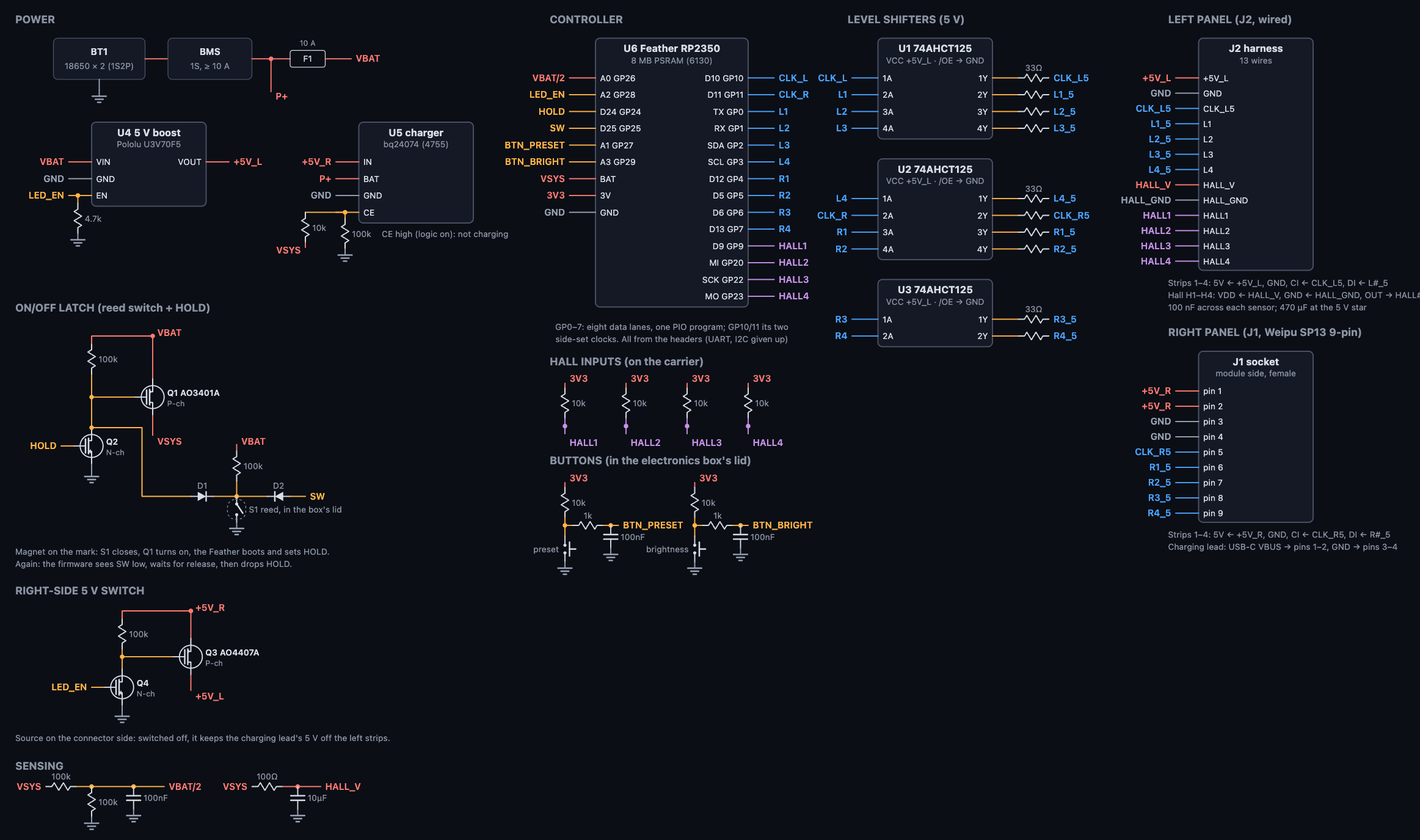
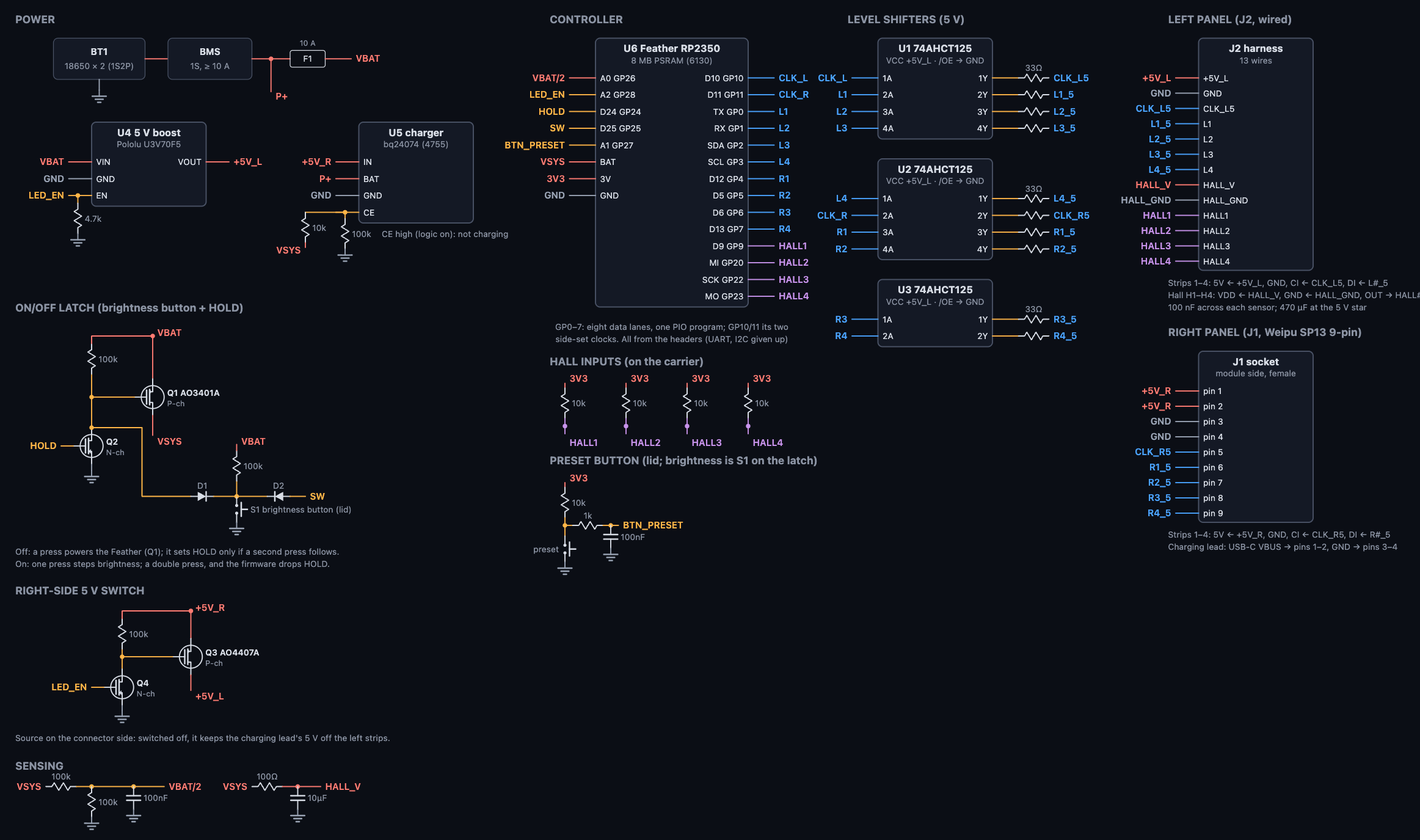
Brightness button double-click switches the wheel off and on; drop the reed switch
The brightness button is wired into the power latch in place of the reed
switch: off, a press powers the Feather, which stays on only if a second
press follows; on, a double press switches it off. Sleep mode goes; the
simulator's sun button does the same.

diff --git a/src/electronics/design.ts b/src/electronics/design.ts
@@ -111,15 +111,14 @@ export function designElectronics(p: Params): Electronics {
     { pin: 'A0', gpio: 26, net: 'VBAT/2', use: 'battery voltage through a 100k/100k divider' },
     { pin: 'A2', gpio: 28, net: 'LED_EN', use: 'turns the 5 V boost and the right side\'s 5 V on' },
     { pin: 'D24', gpio: 24, net: 'HOLD', use: 'keeps the power on once running (soft latch)' },
-    { pin: 'D25', gpio: 25, net: 'SW', use: 'reads the reed switch (magnet held to the mark)' },
+    { pin: 'D25', gpio: 25, net: 'SW', use: 'reads the brightness button, which is also the on/off switch' },
     { pin: 'A1', gpio: 27, net: 'BTN_PRESET', use: 'preset button: next preset; double-click: Auto on or off' },
-    { pin: 'A3', gpio: 29, net: 'BTN_BRIGHT', use: 'brightness button: steps 100, 50, 25, 12 %; double-click: sleep' },
     { pin: 'BAT', net: 'VSYS', use: 'switched battery in (powers the Feather\'s 3.3 V regulator); cut the Feather\'s CHG jumper' },
     { pin: '3V', net: '3V3', use: 'pull-ups for the hall sensors' },
     { pin: 'GND', net: 'GND', use: '' },
   ];
-  notes.push('Controls on the hub package: two sealed buttons and the reed switch (on/off) sit in the electronics box\'s lid, its outer face. The panels\' discs cover the box from the sides, so reach them through the spokes beyond the discs\' edge (raised caps help). Preset: a click for the next preset, a double click to turn Auto on or off (the next preset each time the lights go out). Brightness: cycles 100, 50, 25, 12 % (the firmware scales its LED current limit), and keeps the level when switched off; a double click puts the wheel to sleep (LEDs and boost off, the Feather dormant) until either button is pressed. Each button has a 10k pull-up, 1k in series and 100 nF, against wet-weather noise and static.');
-  notes.push('Power: the boost runs straight off the cells (through the protection board and fuse) and LED_EN turns it on; a 4.7 kΩ pull-down holds it off while the logic is off. The reed switch and HOLD latch only the logic\'s supply, so the off drain is a few tens of µA.');
+  notes.push('Controls on the hub package: two sealed buttons in the electronics box\'s lid, its outer face. The panels\' discs cover the box from the sides, so reach them through the spokes beyond the discs\' edge (raised caps help). Preset: a click for the next preset, a double click to turn Auto on or off (the next preset each time the lights go out). Brightness: cycles 100, 50, 25, 12 % (the firmware scales its LED current limit), and keeps the level when switched off; a double click turns the wheel on or off. It is wired into the power latch: off, a press powers the Feather, which stays on only if a second press follows. The preset button has a 10k pull-up, 1k in series and 100 nF; the brightness button sits on the latch\'s 100k pull-up.');
+  notes.push('Power: the boost runs straight off the cells (through the protection board and fuse) and LED_EN turns it on; a 4.7 kΩ pull-down holds it off while the logic is off. The brightness button and HOLD latch only the logic\'s supply, so the off drain is a few tens of µA.');
   notes.push('Charging: with the right panel unplugged, a lead from a USB-C charger into J1 feeds 5 V back up +5V_R to the charger. Q3 keeps it off the left strips, and the charger only runs while the logic is off.');
   notes.push('Data on GPIO0–7, all on the headers: the UART (TX/RX) and I2C (SDA/SCL, the STEMMA QT socket) go to the strips, so debug over USB. GPIO7 is also the red LED: it flickers with right strip 4\'s data. GPIO8 is the PSRAM\'s chip select: leave it alone. A1 and A3 are spare.');
 
@@ -203,7 +202,7 @@ export function designElectronics(p: Params): Electronics {
     massG: p.cells * CELL.g + 6 + 8,
   };
   const pwrL: Layer = {
-    id: 'power', name: 'Power board', contents: '5 V boost, charger, fuse; the buttons and reed switch in the lid', r0: pack.r0 + pack.radial,
+    id: 'power', name: 'Power board', contents: '5 V boost, charger, fuse; the two buttons in the lid', r0: pack.r0 + pack.radial,
     radial: 15, tangential: CARRIER.w + 2 * WALL + 2, axial: CARRIER.h + 2 * WALL + 2, massG: 19 + 6,
   };
   const logic: Layer = {
@@ -274,7 +273,6 @@ export function designElectronics(p: Params): Electronics {
     { group: 'Wheel', qty: halls, item: 'Hall effect sensor US5881LUA (unipolar switch)', part: '158', source: 'Adafruit', url: 'https://www.adafruit.com/product/158', each: 2, note: 'left panel, one per strip' },
     { group: 'Wheel', qty: 1, item: 'Rare-earth magnet, 12 mm (fork magnet for the hall sensors)', part: '9', source: 'Adafruit', url: 'https://www.adafruit.com/product/9', each: 2.5, note: 'south pole toward the sensors\' marked faces' },
     { group: 'Wheel', qty: 2, item: 'Momentary pushbutton, 12 mm, IP67, normally open, raised cap (preset, brightness)', part: 'e.g. 12 mm IP67 metal pushbutton', source: 'any', note: 'in the electronics box\'s lid' },
-    { group: 'Wheel', qty: 1, item: 'Magnetic contact switch (sealed reed switch): on/off', part: '375', source: 'Adafruit', url: 'https://www.adafruit.com/product/375', each: 3.95, note: 'in the box\'s lid; its magnet is the on/off key' },
     { group: 'Wheel', qty: 1, item: '5 V step-up regulator U3V70F5 (true shutdown on EN)', part: '2891', source: 'Pololu', url: 'https://www.pololu.com/product/2891', each: 25.95 },
     { group: 'Wheel', qty: 1, item: 'bq24074 Li-ion charger breakout (1 A, 1.5 A by jumper)', part: '4755', source: 'Adafruit', url: 'https://www.adafruit.com/product/4755', each: 14.95, note: 'its CE pin turns charging off while running' },
     { group: 'Wheel', qty: p.cells, item: `18650 Li-ion cell, high-drain (≥ 10 A), ${p.cellMah} mAh, tabbed`, part: 'e.g. Samsung 30Q, Molicel P28A', source: 'battery supplier', note: 'tabbed, so nothing is soldered to the cell' },
@@ -294,14 +292,14 @@ export function designElectronics(p: Params): Electronics {
     { group: 'Carrier board', qty: 1, item: 'P-MOSFET, logic level, SO-8 (right-side 5 V switch)', part: 'AO4407A', source: 'Digi-Key, Mouser' },
     { group: 'Carrier board', qty: 1, item: 'P-MOSFET, logic level, SOT-23 (logic power latch)', part: 'AO3401A', source: 'Digi-Key, Mouser' },
     { group: 'Carrier board', qty: 2, item: 'N-MOSFET, SOT-23 (latch hold, right-side switch)', part: '2N7002', source: 'Digi-Key, Mouser' },
-    { group: 'Carrier board', qty: 2, item: 'Schottky diode, SOT-23 (reed switch, switch sense)', part: 'BAT54', source: 'Digi-Key, Mouser' },
+    { group: 'Carrier board', qty: 2, item: 'Schottky diode, SOT-23 (on/off button to the latch, its sense)', part: 'BAT54', source: 'Digi-Key, Mouser' },
     { group: 'Carrier board', qty: chans.length, item: '33 Ω resistor, 0603 (series, one per lane and clock)', part: '—', source: 'Digi-Key, Mouser' },
-    { group: 'Carrier board', qty: halls + 3, item: '10 kΩ resistor, 0603 (hall and button pull-ups, charger CE)', part: '—', source: 'Digi-Key, Mouser' },
-    { group: 'Carrier board', qty: 6, item: '100 kΩ resistor, 0603 (gate pulls, reed pull-up, battery divider, CE pull-down)', part: '—', source: 'Digi-Key, Mouser' },
+    { group: 'Carrier board', qty: halls + 2, item: '10 kΩ resistor, 0603 (hall and preset-button pull-ups, charger CE)', part: '—', source: 'Digi-Key, Mouser' },
+    { group: 'Carrier board', qty: 6, item: '100 kΩ resistor, 0603 (gate pulls, on/off button pull-up, battery divider, CE pull-down)', part: '—', source: 'Digi-Key, Mouser' },
     { group: 'Carrier board', qty: 1, item: '100 Ω resistor, 0603 (hall supply filter)', part: '—', source: 'Digi-Key, Mouser' },
     { group: 'Carrier board', qty: 1, item: '4.7 kΩ resistor, 0603 (holds the boost off while the logic is off)', part: '—', source: 'Digi-Key, Mouser' },
-    { group: 'Carrier board', qty: 2, item: '1 kΩ resistor, 0603 (button inputs, in series)', part: '—', source: 'Digi-Key, Mouser' },
-    { group: 'Carrier board', qty: shifterN + 3, item: '100 nF capacitor, 0603 (one per shifter, divider, buttons)', part: '—', source: 'Digi-Key, Mouser' },
+    { group: 'Carrier board', qty: 1, item: '1 kΩ resistor, 0603 (preset button, in series)', part: '—', source: 'Digi-Key, Mouser' },
+    { group: 'Carrier board', qty: shifterN + 2, item: '100 nF capacitor, 0603 (one per shifter, divider, preset button)', part: '—', source: 'Digi-Key, Mouser' },
     { group: 'Carrier board', qty: 2, item: '10 µF capacitor, 0805 (5 V, hall supply)', part: '—', source: 'Digi-Key, Mouser' },
     { group: 'Carrier board', qty: 1, item: 'Feather female headers, 16 + 12 pin', part: '—', source: 'Adafruit' },
     { group: 'Sealing and wiring', qty: halls, item: '100 nF capacitor across each hall sensor\'s leads', part: '—', source: 'any' },

diff --git a/src/electronics/sheets.ts b/src/electronics/sheets.ts
@@ -113,16 +113,6 @@ class Pen {
     this.line([[x + 6, y + 17], [x + 14, y + 17]], { stroke: C.ink, w: 2 });
     this.text(x - 8, y + 21, label, { size: 11, fill: C.muted, anchor: 'end' });
   }
-  /** Reed switch from (x, y) down to (x, y + 34). */
-  reed(x: number, y: number, label: string) {
-    this.line([[x, y], [x, y + 10]], { stroke: C.ink });
-    this.line([[x, y + 10], [x + 8, y + 22]], { stroke: C.ink, w: 2 });
-    this.line([[x, y + 24], [x, y + 34]], { stroke: C.ink });
-    this.circle(x, y + 10, 2, { fill: C.ink });
-    this.circle(x, y + 24, 2, { fill: C.ink });
-    this.rect(x - 12, y + 4, 24, 26, { stroke: C.muted, r: 10, dash: '3 3' });
-    this.text(x + 16, y + 21, label, { size: 11, fill: C.muted });
-  }
   /** A labelled box with pins on its left and right edges: [name, net] pairs, one per row. */
   block(x: number, y: number, w: number, title: string, sub: string, left: [string, string][], right: [string, string][], o: { pitch?: number; stub?: number } = {}) {
     const pitch = o.pitch ?? 22, stub = o.stub ?? 26;
@@ -200,7 +190,7 @@ function circuit(e: Electronics): Sheet {
 
   // soft latch
   const ly = 430;
-  g.heading(20, ly - 22, 'ON/OFF LATCH (reed switch + HOLD)');
+  g.heading(20, ly - 22, 'ON/OFF LATCH (brightness button + HOLD)');
   const gn = 120, qx = 200, qy = ly + 90;
   g.line([[qx, qy - 24], [qx, ly + 10]], { stroke: C.power });
   g.net(qx, ly + 6, 'VBAT', 'start');
@@ -220,14 +210,15 @@ function circuit(e: Electronics): Sheet {
   g.gnd(gn, qy + 96);
   g.line([[gn - 24, qy + 64], [gn - 40, qy + 64]], { stroke: C.ctl });
   g.net(gn - 40, qy + 64, 'HOLD', 'end');
-  // reed: gate → D1 → reed node → reed → ground; node pulled up to VBAT; SW reads it through D2
+  // on/off: gate → D1 → button node → brightness button → ground; node pulled up to VBAT; SW reads it through D2
   const sx = 310, ry0 = qy + 130;
   g.dot(gn, qy + 40, C.ctl);
   g.line([[gn, qy + 40], [gn + 66, qy + 40], [gn + 66, ry0], [250, ry0]], { stroke: C.ctl });
   g.diode(250, ry0, 'D1');
   g.line([[280, ry0], [sx, ry0]], { stroke: C.ctl });
   g.dot(sx, ry0, C.ctl);
-  g.reed(sx, ry0, 'S1 reed, in the box\'s lid');
+  g.button(sx, ry0, '');
+  g.text(sx + 18, ry0 + 21, 'S1 brightness button (lid)', { size: 11, fill: C.muted });
   g.gnd(sx, ry0 + 34);
   g.line([[sx, ry0], [sx, ry0 - 20]], { stroke: C.ctl });
   g.res(sx, ry0 - 60, '100k', true);
@@ -237,8 +228,8 @@ function circuit(e: Electronics): Sheet {
   g.diode(sx + 40, ry0, 'D2', true);
   g.line([[sx + 70, ry0], [sx + 90, ry0]], { stroke: C.ctl });
   g.net(sx + 90, ry0, 'SW', 'start');
-  g.text(20, ry0 + 76, 'Magnet on the mark: S1 closes, Q1 turns on, the Feather boots and sets HOLD.', { size: 11, fill: C.muted });
-  g.text(20, ry0 + 92, 'Again: the firmware sees SW low, waits for release, then drops HOLD.', { size: 11, fill: C.muted });
+  g.text(20, ry0 + 76, 'Off: a press powers the Feather (Q1); it sets HOLD only if a second press follows.', { size: 11, fill: C.muted });
+  g.text(20, ry0 + 92, 'On: one press steps brightness; a double press, and the firmware drops HOLD.', { size: 11, fill: C.muted });
 
   // right-side 5 V switch
   const ry = ry0 + 150;
@@ -310,8 +301,8 @@ function circuit(e: Electronics): Sheet {
   }
   // buttons: pull-up, 1k in series, 100 nF at the pin; the button to the pod's ground
   const by = hy + 130;
-  g.heading(fx - 60, by - 14, 'BUTTONS (in the electronics box\'s lid)');
-  [['BTN_PRESET', 'preset'], ['BTN_BRIGHT', 'brightness']].forEach(([net, label], i) => {
+  g.heading(fx - 60, by - 14, 'PRESET BUTTON (lid; brightness is S1 on the latch)');
+  [['BTN_PRESET', 'preset']].forEach(([net, label], i) => {
     const x = fx - 40 + i * 170;
     g.net(x, by + 4, '3V3', 'start');
     g.line([[x, by + 10], [x, by + 16]], { stroke: C.power });
@@ -402,11 +393,10 @@ function wiring(e: Electronics): Sheet {
   g.rect(580, 80, 160, 170, { fill: C.box, stroke: C.data, r: 6 });
   g.text(660, 102, 'Logic (top of the box)', { anchor: 'middle', weight: 700 });
   for (const [i, s] of ['Feather RP2350', 'on the carrier board:', `${e.shifters.length} × 74AHCT125`, 'latch, Q3, pull-ups', 'all from the headers'].entries()) g.text(660, 124 + i * 18, s, { anchor: 'middle', size: 11, fill: C.muted });
-  // the box's lid, its outer face: the two buttons and the reed switch
+  // the box's lid, its outer face: the two buttons
   g.circle(752, 92, 7, { stroke: C.ink, w: 1.5 }); g.circle(752, 114, 7, { stroke: C.ink, w: 1.5 });
-  g.rect(746, 128, 12, 18, { stroke: C.ctl, r: 3 });
   g.text(764, 96, 'preset', { size: 10, fill: C.muted }); g.text(764, 118, 'brightness', { size: 10, fill: C.muted });
-  g.text(764, 141, 'on/off reed', { size: 10, fill: C.muted }); g.text(746, 162, 'in the lid', { size: 10, fill: C.ctl });
+  g.text(746, 140, 'in the lid', { size: 10, fill: C.ctl });
   g.rect(580, 300, 160, 110, { fill: C.box, stroke: C.power, r: 6 });
   g.text(660, 322, 'Power board', { anchor: 'middle', weight: 700 });
   for (const [i, s] of ['5 V boost (U3V70F5)', 'charger (bq24074)', 'fuse 10 A'].entries()) g.text(660, 344 + i * 18, s, { anchor: 'middle', size: 11, fill: C.muted });
@@ -540,13 +530,12 @@ function hub(e: Electronics, spokes: number): Sheet {
   // the strap over the stack, through the bracket's rails
   g.line([P(-bh, br.railTo - 3), P(-top.tangential / 2 - 1, outerR + 1.5), P(top.tangential / 2 + 1, outerR + 1.5), P(bh, br.railTo - 3)], { stroke: C.hall, w: 3 });
   g.text(ox, oy - (outerR + 5) * S, 'hook-and-loop strap', { size: 11, fill: C.hall, anchor: 'middle' });
-  // the lid's controls, on the outer face: the two buttons and the reed switch, clear of the strap
+  // the lid's controls, on the outer face: the two buttons, clear of the strap
   for (const dx of [-22, -12]) {
     const [bx0, by0] = P(dx, outerR);
     g.rect(bx0 - 3.5 * S / 2, by0 - 2 * S, 3.5 * S, 2 * S, { fill: C.ink, r: 2 });
   }
-  { const [rx, ry] = P(14, outerR); g.rect(rx - 6 * S / 2, ry - 1.6 * S, 6 * S, 1.6 * S, { fill: C.ctl, r: 2 }); }
-  g.text(ox + (top.tangential / 2 + 6) * S, oy - (outerR + 1) * S, 'lid: preset and brightness buttons, reed', { size: 11, fill: C.ink });
+  g.text(ox + (top.tangential / 2 + 6) * S, oy - (outerR + 1) * S, 'lid: preset and brightness (on/off) buttons', { size: 11, fill: C.ink });
   // XT30 between pack and box
   const [xx, xy] = P(pack.tangential / 2 - 2, pack.r0 + pack.radial);
   g.rect(xx, xy - 7, 26, 14, { fill: '#2a2f3b', stroke: C.ink, r: 3 });
@@ -677,7 +666,7 @@ function board(e: Electronics): Sheet {
   // wire pads at each end
   const leftPads = e.leftHarness.map((w) => w.net);
   const rightPads = ['+5V_R', 'GND', 'CLK_R5', ...Array.from({ length: e.sides === 2 ? e.n : 0 }, (_, i) => `R${i + 1}_5`)];
-  const powerPads = ['+5V_L', 'GND', 'VBAT', 'LED_EN', 'CE', 'REED', 'BTN_P', 'BTN_B', 'GND'];
+  const powerPads = ['+5V_L', 'GND', 'VBAT', 'LED_EN', 'CE', 'BTN_P', 'S1', 'GND'];
   // Numbered pads in two columns at each end; the legend beside the board names each one.
   const padCol = (pads: string[], x: number, title: string, legendX: number, anchor: 'start' | 'end') => {
     const rows = Math.ceil(pads.length / 2);
@@ -694,7 +683,7 @@ function board(e: Electronics): Sheet {
   };
   padCol(leftPads, 1.2, `J2 left harness (${leftPads.length})`, ox - 24, 'end');
   padCol([...rightPads, ...powerPads], Wmm - 3.8, `J1 pigtail, power board (${rightPads.length + powerPads.length})`, ox + Wmm * S + 24, 'start');
-  g.text(B(Wmm / 2, 0)[0], oy + Hmm * S + 18, 'Box pads: power board (GND, +5V_L in 18 AWG), the lid\'s reed and buttons; the charger\'s IN shares +5V_R.', { size: 11, fill: C.muted, anchor: 'middle' });
+  g.text(B(Wmm / 2, 0)[0], oy + Hmm * S + 18, 'Box pads: power board (GND, +5V_L in 18 AWG), the lid\'s two buttons; the charger\'s IN shares +5V_R.', { size: 11, fill: C.muted, anchor: 'middle' });
   const y0 = Math.max(oy + Hmm * S + 50, oy + 30 + 16 * Math.max(leftPads.length, rightPads.length + powerPads.length));
   const notes = [
     'Placement only, for routing in KiCad: the Feather sits 8.5 mm above on female headers, so parts under it stay below ~3 mm.',

diff --git a/src/electronics/electronicsTab.ts b/src/electronics/electronicsTab.ts
@@ -36,7 +36,7 @@ export function buildElectronicsTab(p: Params, pane: HTMLElement, onChange: (key
     const w = e.power;
     const rows: [string, string][] = [
       ['Controller', 'Feather RP2350 (8 MB PSRAM): one PIO program sends every strip its own data on GP0–7, a clock per side; all wired from the headers'],
-      ['Controls', 'in the electronics box\'s lid: preset and brightness buttons (A1, A3) and the on/off reed switch'],
+      ['Controls', 'in the electronics box\'s lid: preset button (A1) and brightness button (D25, on the power latch)'],
       ['Strips', `${e.n} per side × ${e.sides} side${e.sides > 1 ? 's' : ''}, ${e.leds} LEDs each (${e.totalLeds} in all)`],
       ['Lanes', e.lanes.map((l) => `${l.net} GP${l.gpio}`).join(' · ') + ` · clocks GP10${e.sides > 1 ? '/11' : ''}`],
       ['Level shifters', `${e.shifters.length} × 74AHCT125 at 5 V, 33 Ω in series with each output`],
@@ -45,7 +45,7 @@ export function buildElectronicsTab(p: Params, pane: HTMLElement, onChange: (key
       ['Battery', `${p.cells} × 18650 (1S${p.cells}P), ${w.ah} Ah · ${w.battA} A at the limit (${w.perCellA} A a cell) · ≥ ${w.runtimeAtCapH} h even at the limit`],
       ['Charging', `~${w.chargeA} A through J1 with the right panel off: ~${w.chargeH} h from empty`],
       ...(e.sides > 1 ? [['Right connector', `Weipu SP13 9-pin, IP68: ${w.perSideA} A on two 5 V contacts (${w.perPinA} A each, rated 3 A)`] as [string, string]] : []),
-      ['On/off', 'magnet on the reed switch toggles it; the firmware turns off after a while stopped'],
+      ['On/off', 'double-click the brightness button; the firmware also turns off after a while stopped'],
       ['Hub module', `one stack in a printed bracket on a Ø${2 * e.hub.shellR} mm shell: ${e.hub.moduleG} g, centre ${e.hub.moduleR} mm out`],
       ['Balance', `${e.hub.counterweight.massG} g on the rim's inner face ${e.hub.counterweight.angleDeg === 180 ? 'opposite the module' : 'on the module\'s side'} (module opposite the ${e.n === 1 ? 'blades, valve' : 'valve'} and J1)`],
       ['Strips idle', `${w.idleMa} mA with the LEDs dark: the firmware turns the boost off when stopped`],

diff --git a/src/ui.ts b/src/ui.ts
@@ -395,31 +395,31 @@ export function buildUi(p: Params, hooks: UiHooks): Ui {
       clearTimeout(clickTimer);
       clickTimer = 0;
       const auto = $<HTMLInputElement>('auto-next');
+      if (p.switchedOff) return; // off, the preset button does nothing
       auto.checked = !auto.checked;
       auto.dispatchEvent(new Event('change'));
       return;
     }
     clickTimer = window.setTimeout(() => {
       clickTimer = 0;
-      if (p.sleeping) { wake(); return; }
+      if (p.switchedOff) return;
       store.next();
       hooks.onPresetSelected();
     }, 300);
   };
   presetName.onclick = () => openTab('presets');
   // The wheel's second button: a click steps the brightness (remembered with the hardware), a double
-  // click puts the wheel to sleep (LEDs and boost off). Asleep, a click on either button wakes it.
+  // click switches the wheel off or on (it is wired into the power latch). Off, a single click does nothing.
   const bright = $('bright');
-  const wake = () => { p.sleeping = false; refresh(); };
   const stepBrightness = () => {
-    if (p.sleeping) { wake(); return; }
+    if (p.switchedOff) return;
     p.brightnessLevel = (p.brightnessLevel + 1) % BRIGHTNESS_STEPS.length;
     hooks.onDeviceEdit('brightnessLevel');
     refresh();
   };
   let brightTimer = 0;
   bright.onclick = () => {
-    if (brightTimer) { clearTimeout(brightTimer); brightTimer = 0; p.sleeping = !p.sleeping; refresh(); return; }
+    if (brightTimer) { clearTimeout(brightTimer); brightTimer = 0; p.switchedOff = !p.switchedOff; refresh(); return; }
     brightTimer = window.setTimeout(() => { brightTimer = 0; stepBrightness(); }, 300);
   };
   window.addEventListener('keydown', (e) => {
@@ -485,7 +485,7 @@ export function buildUi(p: Params, hooks: UiHooks): Ui {
     }
     syncVisibility();
     renderPresets();
-    bright.textContent = p.sleeping ? '☾ Sleep' : `☀ ${Math.floor(BRIGHTNESS_STEPS[p.brightnessLevel] * 100)}%`;
+    bright.textContent = p.switchedOff ? '⏻ Off' : `☀ ${Math.floor(BRIGHTNESS_STEPS[p.brightnessLevel] * 100)}%`;
     panels.refresh();
   }
   refresh();

diff --git a/src/params.ts b/src/params.ts
@@ -78,7 +78,7 @@ export const MPH = 0.44704; // m/s
 
 /** The brightness button's steps: each press scales every LED (and the firmware's current limit) by the next. */
 export const BRIGHTNESS_STEPS = [1, 0.5, 0.25, 0.125];
-export const brightnessScale = (p: { brightnessLevel: number; sleeping: boolean }) => (p.sleeping ? 0 : BRIGHTNESS_STEPS[p.brightnessLevel] ?? 1);
+export const brightnessScale = (p: { brightnessLevel: number; switchedOff: boolean }) => (p.switchedOff ? 0 : BRIGHTNESS_STEPS[p.brightnessLevel] ?? 1);
 
 export function defaultParams() {
   const wheel = WHEELS['700c (622)'];
@@ -166,7 +166,7 @@ export function defaultParams() {
     predictMotion: true,      // banner mode: compute each update for mid-display time, not send time
     nextOnDark: true,         // switch to the next preset each time the lights go out (stopping)
     brightnessLevel: 0,       // the wheel's brightness button: a step of BRIGHTNESS_STEPS, kept when switched off
-    sleeping: false,          // its double click: LEDs and boost off until a button is pressed (not saved)
+    switchedOff: false,       // its double click switches the wheel off, and on again (not saved)
     freeRunColsPerSec: 540,
 
     // Image

diff --git a/index.html b/index.html
@@ -176,7 +176,7 @@
       <button id="preset-name" type="button" title="Edit presets">Preset</button>
       <div class="row">
         <button id="preset-next" type="button" title="The wheel's preset button: click for the next preset (N), double-click to toggle Auto">Next ▶</button>
-        <button id="bright" type="button" title="The wheel's brightness button: click to step 100 → 50 → 25 → 12 % (B), double-click to sleep; asleep, either button wakes it">☀ 100%</button>
+        <button id="bright" type="button" title="The wheel's brightness button: click to step 100 → 50 → 25 → 12 % (B), double-click to switch the wheel off or on">☀ 100%</button>
         <span class="speed"><span id="ride-speed">0.0</span><span id="ride-unit">mph</span></span>
         <input id="ride-slider" type="range" min="0" max="40" step="0.5" aria-label="Bicycle speed" />
         <label class="auto" title="Ride stop-and-go through the city, and go to the next preset at each stop, when the lights go out"><input id="auto-next" type="checkbox" />Auto</label>

diff --git a/test/electronics.test.ts b/test/electronics.test.ts
@@ -29,7 +29,8 @@ describe('electronics', () => {
 
   it('puts the preset and brightness buttons on the hub package, on spare header pins', () => {
     expect(e.pins.find((q) => q.net === 'BTN_PRESET')!.pin).toBe('A1');
-    expect(e.pins.find((q) => q.net === 'BTN_BRIGHT')!.pin).toBe('A3');
+    expect(e.pins.find((q) => q.net === 'SW')!.use).toMatch(/brightness/); // the brightness button is the on/off switch
+    expect(e.bom.some((b) => /reed/i.test(b.item))).toBe(false);
     expect(e.leftHarness.some((w) => w.net.startsWith('BTN'))).toBe(false); // in the box's lid, not on a panel
     expect(e.bom.find((b) => /pushbutton/.test(b.item))!.qty).toBe(2);
   });

diff --git a/docs/electronics.md b/docs/electronics.md
@@ -20,7 +20,7 @@ The tab also lists the power budget, warns about anything that doesn't fit, and 
 | Power | Two 18650 high-drain cells in parallel, a 1S protection board, a 10 A fuse, a Pololu U3V70F5 5 V boost (2891) | Simple USB charging, and the boost has a true shutdown |
 | Mounting | A 3D-printed bracket tied to the hub shell, a hook-and-loop strap, an XT30 between the pack and the box, a stick-on rim weight | Easy on and off; balanced |
 | Charger | bq24074 breakout (4755), 1 A (1.5 A by jumper) | Its CE pin stops charging while the wheel runs |
-| On/off | Sealed reed switch (375) and a soft latch | A magnet held to the mark: nothing to seal round a button |
+| On/off | The brightness button, wired into a soft latch: double-click | No extra switch or magnet |
 | Buttons | Two sealed 12 mm IP67 momentary pushbuttons in the electronics box's lid: preset and brightness | The wheel's controls, on the hub package |
 | Right connector | Weipu SP13 9-pin, IP68: an inline socket on the module's pigtail, a plug on the right panel | Screw-lock, 3 A a contact, and cheap |
 
@@ -56,20 +56,22 @@ The rest of the pins:
 | A0 | Battery voltage, through a 100k/100k divider |
 | A1 | Preset button |
 | A2 | `LED_EN`: turns on the boost and the right side's 5 V |
-| A3 | Brightness button |
 | D24 | `HOLD`: keeps the latch on |
-| D25 | `SW`: reads the reed switch |
+| D25 | `SW`: reads the brightness button (also the on/off switch) |
 
 GPIO8 is the PSRAM's chip select and stays free.
 
 ## Buttons
 
-The wheel has two buttons, on the hub package. With the reed switch, they sit in the electronics box's lid, on its outer face. The panels' discs cover the box from the sides, so you reach them through the spokes beyond the discs' edge; raised caps help.
+The wheel has two buttons, on the hub package, in the electronics box's lid on its outer face. The panels' discs cover the box from the sides, so you reach them through the spokes beyond the discs' edge; raised caps help.
 
 - **Preset:** a click goes to the next preset; a double click turns Auto on or off (Auto: the next preset each time the lights go out).
-- **Brightness:** each press steps the LEDs to the next of four levels: 100, 50, 25, 12 %, then back to 100. A double click puts the wheel to sleep: the LEDs and the boost go off and the Feather goes dormant, waking on a press of either button (the first press only wakes it). The hall sensors stay powered, about 16 mA, so for storage switch off with the magnet. The firmware scales its LED current limit with it and keeps the level when the wheel is switched off.
+- **Brightness:** each press steps the LEDs to the next of four levels: 100, 50, 25, 12 %, then back to 100. The firmware scales its LED current limit with it and keeps the level when the wheel is switched off. A **double click turns the wheel off or on**:
+  - The button is wired into the power latch in place of a separate switch. Off, it pulls Q1's gate low through D1, so a press powers the Feather.
+  - The Feather boots in a few milliseconds and reads the button through D2 (`SW`). If a second press follows, it sets `HOLD` and stays on; if not, it lets go and switches off again.
+  - On, a double press makes the firmware drop `HOLD`, and the wheel switches off when the button is released. Off, nothing draws current but leakage (a few tens of µA).
 
-Each input has a 10k pull-up to 3.3 V, 1 kΩ in series and 100 nF at the pin, against noise and static in the wet. In the simulator, **Next ▶** and **☀** on the ride bar are these two buttons (keys N and B). Double-click **Next ▶** to toggle **Auto**, and **☀** to sleep.
+The preset button has a 10k pull-up to 3.3 V, 1 kΩ in series and 100 nF at the pin, against noise and static in the wet; the brightness button sits on the latch's 100k pull-up. In the simulator, **Next ▶** and **☀** on the ride bar are these two buttons (keys N and B). Double-click **Next ▶** to toggle **Auto**, and **☀** to switch the wheel off or on.
 
 Each lane and clock goes through a 74AHCT125 powered at 5 V, with a 33 Ω series resistor at each output for the 20–30 cm runs and the connector.
 
@@ -79,7 +81,7 @@ Each lane and clock goes through a 74AHCT125 powered at 5 V, with a 33 Ω series
 - **Runtime:** two 3000 mAh cells last about 0.9 h even pinned at the limit. Most pictures draw far less; see the Stats tab, whose battery figure follows the cells.
 - **Boost:** the boost runs straight off the protected, fused cells. `LED_EN` enables it. A 4.7 kΩ pull-down holds it off while the logic is off: the boost's own 100 kΩ pull-up to its input would otherwise turn it on.
 - **Off drain:** a few tens of µA through that divider.
-- **Logic:** the reed switch and `HOLD` latch only the Feather's supply, through Q1, a small P-MOSFET. Cut the Feather's CHG jumper so only the bq24074 charges.
+- **Logic:** the brightness button and `HOLD` latch only the Feather's supply, through Q1, a small P-MOSFET. Cut the Feather's CHG jumper so only the bq24074 charges.
 - **Hall sensors:** the US5881 needs at least 3.5 V, so the sensors run from the battery through a 100 Ω/10 µF filter. Their 10k pull-ups go to 3.3 V. The sensors' ground has its own wire, kept off the strips' return current.
 - **Strips idle:** about 1 mA per LED even when dark, so the firmware turns the boost off when the wheel stops.
 
@@ -122,7 +124,7 @@ The module is one stack on one side of the hub shell, between the flanges, built
 
 1. **Bracket:** 3D-printed in PETG or ASA. It is a saddle curved to the hub shell, with rails up the sides of the battery pack. It stays on the hub, held by three zip ties round the shell. On a track hub with cut-out flanges, the ties can also go through the flange windows so the bracket can't slide or turn.
 2. **Battery pack:** the cells and their protection board in a printed shell. The cells lie across the axle, two side by side along it. A 65 mm cell along the axle wouldn't clear the spoke cones on a typical road hub.
-3. **Electronics box:** a printed shell with the power board (boost, charger, fuse, reed switch) and the Feather on its carrier above it. An XT30 joins it to the pack.
+3. **Electronics box:** a printed shell with the power board (boost, charger, fuse) and the Feather on its carrier above it. An XT30 joins it to the pack.
 
 A hook-and-loop strap through the bracket's rails holds the pack and the box. To take the electronics off, undo the strap and unplug J1; the left panel comes with them, since it's wired straight on.
 
@@ -162,7 +164,7 @@ The bracket has to fit between the flanges; the tab warns when it doesn't.
 
 The carrier board is 62 × 22.9 mm, the Feather's outline with a strip of wire pads at each end. The Feather plugs in 8.5 mm above it on female headers, and every signal comes through them: there is no ribbon cable. Under the Feather sit the three SOIC shifters with their 33 Ω resistors, Q1–Q4, D1–D2, and the pull-ups and filters for the hall sensors and buttons.
 
-The harnesses solder straight to the numbered pads: J2 at one end; at the other, the J1 pigtail, the power board's wires, and the lid's reed switch and buttons. The Board sheet is a placement for routing in KiCad, not a routed board. Check the header positions against the Feather.
+The harnesses solder straight to the numbered pads: J2 at one end; at the other, the J1 pigtail, the power board's wires, and the lid's two buttons. The Board sheet is a placement for routing in KiCad, not a routed board. Check the header positions against the Feather.
 
 ## Waterproofing
 

diff --git a/README.md b/README.md
@@ -57,7 +57,7 @@ These are all renders from the simulator, starting from the Water preset and the
 Two views show the same moment and the same animation. The main view follows the bike, and a narrow **roadside strip** above it watches the bike ride past like a basic phone camera at night, without flash (a 1/8 s exposure by default). The main view mimics the human eye. You can move the strip below the main view, give it its own exposure, or hide it under *Simulator → Camera*. The panel at the bottom is for riding: the current **preset**, then the wheel's two buttons, then the speed, its slider and **Auto**:
 
 - **Next ▶** is the wheel's preset button. Click for the next preset (or press **N**); double-click to toggle **Auto**.
-- **☀** is the wheel's brightness button. Click to step 100, 50, 25 and 12 % (or press **B**). Double-click to put the wheel to sleep; a click on either button wakes it.
+- **☀** is the wheel's brightness button. Click to step 100, 50, 25 and 12 % (or press **B**). Double-click to switch the wheel off, and again to switch it on.
 
 **⚙ Settings** opens a panel: on the right on a computer, or from the bottom on a phone. Every section starts with just a few choices, and its **Details** folders hold the rest.
 
@@ -96,14 +96,14 @@ One platform: an Adafruit Feather RP2350 (8 MB PSRAM) in a module on the hub she
 - **Level shifting:** three 74AHCT125s shift the 3.3 V signals to 5 V.
 - **Sensors:** a hall sensor per strip sits on the left panel.
 - **Power:** two 18650 cells feed a 5 V boost converter, which the firmware turns off when the wheel stops.
-- **Controls:** a magnet held to a reed switch turns the wheel on and off. Two sealed buttons in the electronics box's lid choose the preset and the brightness, as the ride bar's **Next ▶** and **☀** do in the simulator.
+- **Controls:** two sealed buttons in the electronics box's lid choose the preset and the brightness, as the ride bar's **Next ▶** and **☀** do in the simulator. A double click on the brightness button, which is wired into the power latch, switches the wheel off or on.
 - **Connections:** the left panel is wired straight to the module. The right panel plugs in through a 9-pin IP68 connector (Weipu SP13), which also takes a USB-C charging lead when the right panel is off.
 
 The **Electronics** tab works all of this out from the build (strips per side, LEDs per strip, spokes, hub). It lists the power budget and a **shopping list** (on screen and as CSV), and draws four sheets. [docs/electronics.md](docs/electronics.md) has the design notes.
 
 The **Circuit** sheet shows the power path, the on/off latch, the controller's pins, the level shifters, the buttons and both panels' connections:
 
-![Circuit sheet: battery, protection, fuse, boost and charger; the reed-switch latch; the Feather's pin map with eight data lanes on GPIO0–7; hall and button inputs; three 74AHCT125 level shifters; the left harness and the right connector's pins](docs/images/electronics-circuit.png)
+![Circuit sheet: battery, protection, fuse, boost and charger; the on/off latch; the Feather's pin map with eight data lanes on GPIO0–7; hall and button inputs; three 74AHCT125 level shifters; the left harness and the right connector's pins](docs/images/electronics-circuit.png)
 
 The **Wiring** sheet shows the left panel's harness, the hub module's layers, the right panel's plug-in connector and the charging lead, with every wire's colour and gauge:
 
